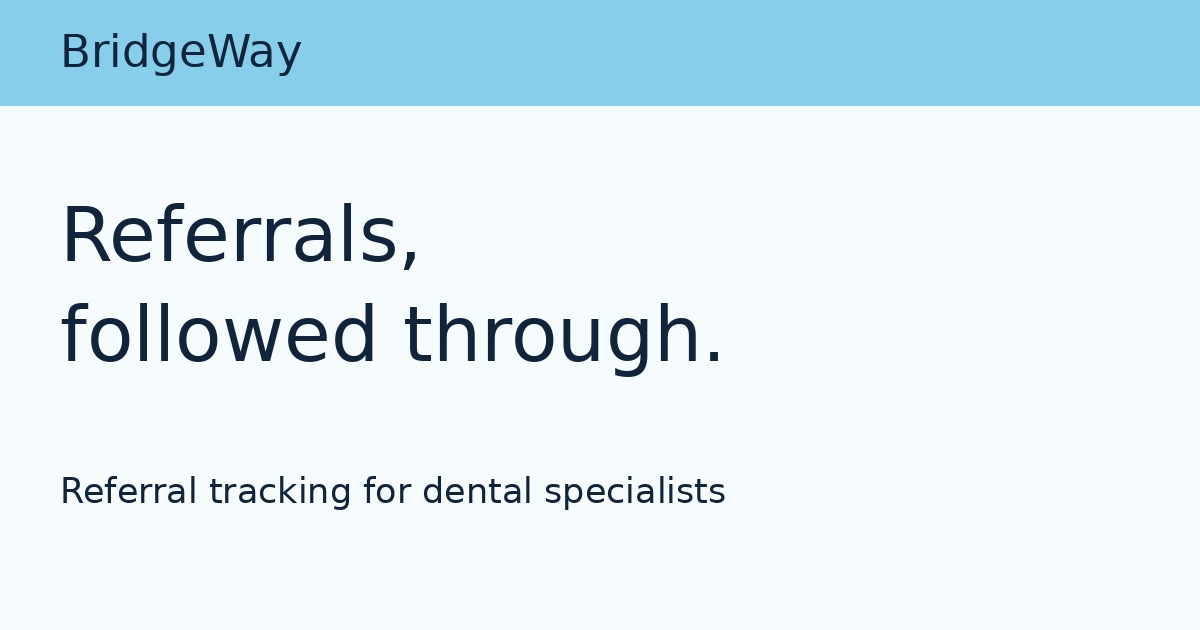
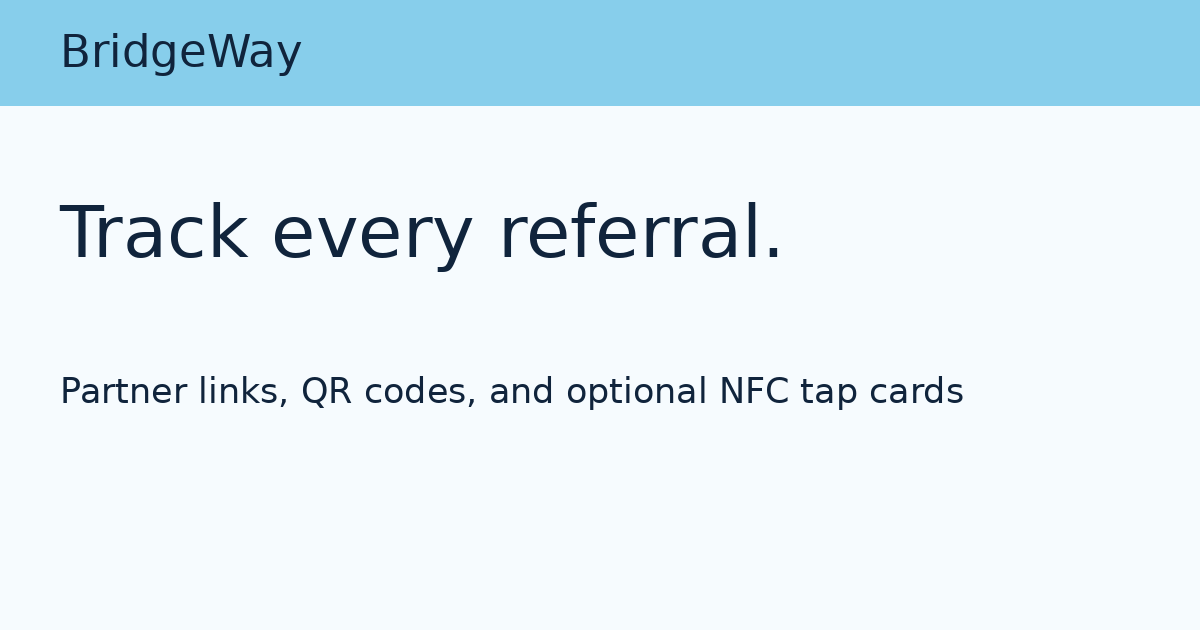
Position BridgeWay for business referrals across industries

diff --git a/src/bridgeway-web/components/LandingPage.tsx b/src/bridgeway-web/components/LandingPage.tsx
@@ -3,13 +3,13 @@ import Link from "next/link";
 
 export default function LandingPage() {
   return <main className="access-page refreshed-home" id="main-content">
-    <section className="home-hero"><div className="home-copy"><p className="eyebrow">REFERRAL TRACKING FOR DENTAL SPECIALISTS</p><h1>Turn referred patients into scheduled visits.</h1><p>Give referring offices a simple tap-to-refer card. Patient requests arrive in one inbox, where your team can assign follow-up and track each referral through completion.</p><div className="home-actions"><Link className="access-action" href="/contact">See how it works <span aria-hidden="true">→</span></Link><a className="home-secondary" href="/signup">Create your workspace <span aria-hidden="true">→</span></a></div><small>$50 USD per business, per month · NFC cards sold separately. <Link href="/pricing">See card and setup details</Link>.</small></div>
+    <section className="home-hero"><div className="home-copy"><p className="eyebrow">BUSINESS REFERRAL TRACKING</p><h1>Track every referral from introduction to follow-up.</h1><p>Give each referring partner a link, QR code, or optional NFC tap card. When someone submits a request, your team can see who referred them and follow up from one inbox.</p><div className="home-actions"><Link className="access-action" href="/contact">See how it works <span aria-hidden="true">→</span></Link><a className="home-secondary" href="/signup">Create your workspace <span aria-hidden="true">→</span></a></div><small>$50 USD per business, per month · NFC cards sold separately. <Link href="/pricing">See card and setup details</Link>.</small></div>
       <div className="home-preview"><div className="preview-head"><span>YOUR REFERRALS</span><span>PRIVATE</span></div><h2>Referral follow-up</h2><div className="preview-row"><i/> <span><b>New referral</b><small>Ready for your next action</small></span><em>New</em></div><div className="preview-row muted-row"><i/> <span><b>Partner referral</b><small>Follow-up status visible</small></span><em>Contacted</em></div><footer>YOUR BUSINESS DATA ONLY</footer></div></section>
-    <section className="home-steps"><article><span>1&nbsp; Create your workspace</span><p>Set up your practice and subscription.</p></article><article><span>2&nbsp; Connect referring offices</span><p>Add your offices and partners, then arrange your card links.</p></article><article><span>3&nbsp; Test and activate</span><p>Test your referral link and alerts, then open intake.</p></article></section>
-    <section className="home-details"><p className="eyebrow">HOW A REFERRAL TRAVELS</p><h2>From a tap to a follow-up in three steps.</h2><div><article><span aria-hidden="true">01</span><b>Referring staff share your card link</b></article><article><span aria-hidden="true">02</span><b>Patient taps or scans and completes a short form</b></article><article><span aria-hidden="true">03</span><b>Your team follows up from the inbox</b></article></div></section>
-    <section className="home-features"><p className="eyebrow">WHAT YOU GET</p><h2>Everything you need to track referrals.</h2><div>{[["Branded referral form","Your logo and offices on every card link."],["Partner tracking","See taps vs. referrals for each partner."],["Staff alerts","Configure email alerts that link your team to the dashboard."],["Monthly reports","12-month trend and month-over-month comparisons."],["Team access","Invite staff to your private workspace."],["Secure by default","Workspace membership controls access to referral records."]].map(([title,copy])=><article key={title}><h3>{title}</h3><p>{copy}</p></article>)}</div></section>
+    <section className="home-steps"><article><span>1&nbsp; Create your workspace</span><p>Set up your business workspace.</p></article><article><span>2&nbsp; Connect referring partners</span><p>Create a referral link for each partner. Add NFC cards if you want people to tap to open the form.</p></article><article><span>3&nbsp; Test and activate</span><p>Test your referral link and alerts, then open intake.</p></article></section>
+    <section className="home-details"><p className="eyebrow">HOW A REFERRAL TRAVELS</p><h2>How partner referrals work</h2><div><article><span aria-hidden="true">01</span><b>A partner shares their link, QR code, or NFC card</b></article><article><span aria-hidden="true">02</span><b>The person they refer opens a short form</b></article><article><span aria-hidden="true">03</span><b>Your team follows up from the inbox</b></article></div></section>
+    <section className="home-features"><p className="eyebrow">WHAT YOU GET</p><h2>Everything you need to track referrals.</h2><div>{[["Branded referral form","Your logo and offices on every card link."],["Partner tracking","See link opens and submitted referrals for each partner."],["Staff alerts","Configure email alerts that link your team to the dashboard."],["Monthly reports","12-month trend and month-over-month comparisons."],["Team access","Invite staff to your private workspace."],["Secure by default","Workspace membership controls access to referral records."]].map(([title,copy])=><article key={title}><h3>{title}</h3><p>{copy}</p></article>)}</div></section>
     <section className="home-pricing"><p className="eyebrow">PRICING</p><h2>Choose your monthly plan.</h2><article><strong>$50</strong><span>per business, per month</span><ul><li>Unlimited referrals</li><li>Unlimited offices &amp; partners</li><li>Staff invites</li><li>Monthly reports</li></ul><Link className="access-action" href="/signup">Start your workspace →</Link><small>NFC cards sold separately. <Link href="/pricing">See card and setup details</Link>.</small></article><article><h3>Managed Calling</h3><strong>$400</strong><span>USD per business, per month</span><p>Get the referral workspace plus a team that calls referrals and records follow-up in your CRM.</p><ManagedCallingForm /></article></section>
-    <section className="home-faq"><h2>Frequently asked questions</h2>{["How do NFC cards work?","Do customers need an app?","Who can see our referrals?","Can I cancel anytime?","How do I add more offices?"].map(q=><details key={q}><summary>{q}</summary><p>{q === 'How do NFC cards work?' ? 'Tap the card with a compatible phone to open the receiving business’s branded referral form.' : q === 'Do customers need an app?' ? 'No. The referral form opens in the phone’s web browser.' : q === 'Who can see our referrals?' ? 'Only authorized members of your business workspace can access its private referral dashboard.' : q === 'Can I cancel anytime?' ? 'Manage your subscription and cancellation from Billing in your workspace.' : 'Add offices from Setup in your workspace, then issue card links for the correct office.'}</p></details>)}</section>
+    <section className="home-faq"><h2>Frequently asked questions</h2>{["How do NFC cards work?","Do customers need an app?","Who can see our referrals?","Can I cancel anytime?","How do I add more offices?"].map(q=><details key={q}><summary>{q}</summary><p>{q === 'How do NFC cards work?' ? 'Each card opens a referral form linked to a specific partner. Use the same link or QR code when a physical card isn’t needed.' : q === 'Do customers need an app?' ? 'No. The referral form opens in the phone’s web browser.' : q === 'Who can see our referrals?' ? 'Only authorized members of your business workspace can access its private referral dashboard.' : q === 'Can I cancel anytime?' ? 'Manage your subscription and cancellation from Billing in your workspace.' : 'Add offices from Setup in your workspace, then issue card links for the correct office.'}</p></details>)}</section>
     <section className="home-final"><h2>Make the next referral easier to follow up.</h2><Link className="access-action" href="/contact">Request a walkthrough</Link></section>
   </main>;
 }

diff --git a/src/bridgeway-web/app/privacy/page.tsx b/src/bridgeway-web/app/privacy/page.tsx
@@ -1,2 +1,2 @@
 export const metadata = { title: "Privacy notice", alternates: { canonical: "/privacy" } };
-export default function PrivacyPage() { return <main className="dashboard public-document" id="main-content"><section className="card"><h1>Privacy notice</h1><h2>Referral requests</h2><p>The form collects the information you enter, including name, email, phone, optional request details, and contact consent. The receiving business uses that information to review and follow up on the request.</p><p>Referral links associate submissions and link-opening events with the receiving office and referring partner. Authorized workspace members can review referrals and reports. Do not put payment details or clinical records in the notes field.</p><h2>Staff and billing</h2><p>Microsoft sign-in supplies identity information used to verify staff access. Stripe handles subscription checkout and billing. The application uses a session cookie and stores the selected workspace identifier in browser storage.</p><h2>Contact requests</h2><p>The contact form collects your name, email, business name, and permission for BridgeWay to respond. Do not use it to send patient information.</p><h2>Questions and requests</h2><p>Contact the receiving practice about a referral or its use of your information. Use the <a href="/contact">BridgeWay contact form</a> for platform privacy questions or a request concerning information you submitted to BridgeWay.</p><p>Practice-specific retention, deletion, and healthcare contractual requirements should be confirmed before deployment. This notice describes the application workflow and does not replace the receiving practice’s privacy notice.</p></section></main>; }
+export default function PrivacyPage() { return <main className="dashboard public-document" id="main-content"><section className="card"><h1>Privacy notice</h1><h2>Referral requests</h2><p>The form collects the information you enter, including name, email, phone, optional request details, and contact consent. The receiving business uses that information to review and follow up on the request.</p><p>Referral links associate submissions and link-opening events with the receiving office and referring partner. Authorized workspace members can review referrals and reports. Do not put payment details or clinical records in the notes field.</p><h2>Staff and billing</h2><p>Microsoft sign-in supplies identity information used to verify staff access. Stripe handles subscription checkout and billing. The application uses a session cookie and stores the selected workspace identifier in browser storage.</p><h2>Contact requests</h2><p>The contact form collects your name, email, business name, and permission for BridgeWay to respond. Do not use it to send private information about someone else.</p><h2>Questions and requests</h2><p>Contact the receiving business about a referral or its use of your information. Use the <a href="/contact">BridgeWay contact form</a> for platform privacy questions or a request concerning information you submitted to BridgeWay.</p><p>Practice-specific retention, deletion, and healthcare contractual requirements should be confirmed before deployment. This notice describes the application workflow and does not replace the receiving business’s privacy notice.</p></section></main>; }

diff --git a/src/bridgeway-web/app/terms/page.tsx b/src/bridgeway-web/app/terms/page.tsx
@@ -1,2 +1,2 @@
 export const metadata = { title: "Service information and terms", alternates: { canonical: "/terms" } };
-export default function TermsPage() { return <main className="dashboard public-document" id="main-content"><section className="card"><h1>Service information and terms</h1><p>BridgeWay provides referral capture and follow-up tools. Submitting a request does not book an appointment or guarantee that the receiving business will accept it. Contact the practice directly for time-sensitive needs.</p><h2>Workspace subscriptions</h2><p>The advertised subscription is $50 USD per business per month. Physical NFC cards and fulfillment are separate. Review the amount and any offer displayed in Stripe checkout before subscribing. Billing management and cancellation are available in the workspace.</p><h2>Appropriate use</h2><p>Workspace administrators should invite only authorized staff, keep access current, and confirm that their intended use meets their practice’s requirements. Public forms are not intended for payment details, clinical attachments, or emergency requests.</p><h2>Before using BridgeWay in your practice</h2><p>Contact BridgeWay to confirm card fulfillment, support, data handling, and any required business or healthcare agreement. This service summary does not supply a Business Associate Agreement or replace separately agreed contractual terms.</p><p><a href="/contact">Ask about service terms</a>.</p></section></main>; }
+export default function TermsPage() { return <main className="dashboard public-document" id="main-content"><section className="card"><h1>Service information and terms</h1><p>BridgeWay provides referral capture and follow-up tools. Submitting a request does not book an appointment or guarantee that the receiving business will accept it. Contact the receiving business directly for time-sensitive needs.</p><h2>Workspace subscriptions</h2><p>The advertised subscription is $50 USD per business per month. Physical NFC cards and fulfillment are separate. Review the amount and any offer displayed in Stripe checkout before subscribing. Billing management and cancellation are available in the workspace.</p><h2>Appropriate use</h2><p>Workspace administrators should invite only authorized staff, keep access current, and confirm that their intended use meets their business’s requirements. Public forms are not intended for payment details, clinical attachments, or emergency requests.</p><h2>Before using BridgeWay in your business</h2><p>Contact BridgeWay to confirm card fulfillment, support, data handling, and any required business or healthcare agreement. This service summary does not supply a Business Associate Agreement or replace separately agreed contractual terms.</p><p><a href="/contact">Ask about service terms</a>.</p></section></main>; }

diff --git a/src/bridgeway-web/app/pricing/page.tsx b/src/bridgeway-web/app/pricing/page.tsx
@@ -1,2 +1,2 @@
 export const metadata = { title: "Pricing and NFC cards", alternates: { canonical: "/pricing" } };
-export default function PricingPage() { return <main className="dashboard public-document" id="main-content"><section className="card"><h1>One workspace. $50 per month.</h1><p>USD per business, with referral tracking, offices, partners, staff invitations, and monthly reporting.</p><h2>NFC cards are sold separately</h2><p>Request a card quote before purchasing. Confirm the quantity, card design, shipping cost, delivery estimate, and replacement terms with BridgeWay. These costs are not included in the subscription.</p><p>Each issued card link can also be copied or displayed as a QR code. A compatible phone can open the form without installing an app.</p><h2>What setup involves</h2><ol><li>Create your workspace and subscription.</li><li>Add receiving offices and referring partners.</li><li>Arrange card links with BridgeWay.</li><li>Test a link and staff alerts, then enable intake.</li></ol><p>New workspaces begin with intake off. Physical card issuance is managed by BridgeWay.</p><p>Manage subscription cancellation through Billing in your workspace. Any trial offer will be shown in checkout; no trial is promised on this page.</p><p><a className="access-action" href="/contact">Ask about cards and setup</a></p></section></main>; }
+export default function PricingPage() { return <main className="dashboard public-document" id="main-content"><section className="card"><h1>One workspace. $50 per month.</h1><p>USD per business, with referral tracking, offices, partners, staff invitations, and monthly reporting.</p><h2>NFC cards are sold separately</h2><p>Request a card quote before purchasing. Confirm the quantity, card design, shipping cost, delivery estimate, and replacement terms with BridgeWay. These costs are not included in the subscription.</p><p>Each partner’s referral link can be shared directly or displayed as a QR code. An optional NFC card opens the same link. A compatible phone can open the form without installing an app.</p><h2>What setup involves</h2><ol><li>Create your workspace and subscription.</li><li>Add receiving offices and referring partners.</li><li>Arrange partner referral links with BridgeWay and request NFC cards if needed.</li><li>Test a link and staff alerts, then enable intake.</li></ol><p>New workspaces begin with intake off. Physical card issuance is managed by BridgeWay.</p><p>Manage subscription cancellation through Billing in your workspace. Any trial offer will be shown in checkout; no trial is promised on this page.</p><p><a className="access-action" href="/contact">Ask about cards and setup</a></p></section></main>; }

diff --git a/src/bridgeway-web/app/security/page.tsx b/src/bridgeway-web/app/security/page.tsx
@@ -1,2 +1,2 @@
 export const metadata = { title: "Security and access", alternates: { canonical: "/security" } };
-export default function SecurityPage() { return <main className="dashboard public-document" id="main-content"><section className="card"><h1>How access is controlled</h1><p>Staff access uses Microsoft sign-in and active membership in the selected business workspace. Platform administration has a separate access check.</p><h2>Referral information</h2><p>Referral records are reviewed inside the authenticated dashboard. Standard staff notification emails contain a dashboard link, without patient names, contact details, or notes.</p><h2>Public card links</h2><p>A card or QR link opens a submission form. It does not grant access to the private referral inbox. Share card links only where you intend to accept requests.</p><h2>Healthcare deployment questions</h2><p>Before using BridgeWay for your practice, confirm your data requirements and available contractual terms with BridgeWay. This page is not a claim of HIPAA certification or a Business Associate Agreement.</p><p><a href="/contact">Contact BridgeWay about security</a>.</p></section></main>; }
+export default function SecurityPage() { return <main className="dashboard public-document" id="main-content"><section className="card"><h1>How access is controlled</h1><p>Staff access uses Microsoft sign-in and active membership in the selected business workspace. Platform administration has a separate access check.</p><h2>Referral information</h2><p>Referral records are reviewed inside the authenticated dashboard. Standard staff notification emails contain a dashboard link, without referral names, contact details, or notes.</p><h2>Public card links</h2><p>A card or QR link opens a submission form. It does not grant access to the private referral inbox. Share card links only where you intend to accept requests.</p><h2>Healthcare deployment questions</h2><p>Before using BridgeWay for your business, confirm your data requirements and available contractual terms with BridgeWay. This page is not a claim of HIPAA certification or a Business Associate Agreement.</p><p><a href="/contact">Contact BridgeWay about security</a>.</p></section></main>; }

diff --git a/src/bridgeway-web/components/DemoRequestForm.tsx b/src/bridgeway-web/components/DemoRequestForm.tsx
@@ -12,5 +12,5 @@ export default function DemoRequestForm() {
     finally { setBusy(false); }
   }
   if (done) return <div role="status"><h2>Request received</h2><p>Your request is available to the BridgeWay team. We can contact you at the email you provided.</p></div>;
-  return <form onSubmit={submit} className="form-grid"><label>Your name<input name="name" autoComplete="name" maxLength={120} required /></label><label>Work email<input name="email" type="email" autoComplete="email" maxLength={254} required /></label><label>Practice or business<input name="businessName" autoComplete="organization" maxLength={120} required /></label><label className="check"><input name="consent" type="checkbox" required /><span>I agree that BridgeWay may contact me about this request. Please do not include patient information.</span></label><p>Read our <a href="/privacy">privacy notice</a> before submitting.</p><button className="primary" disabled={busy}>{busy ? "Sending…" : "Request a walkthrough"}</button>{error && <p role="alert">{error}</p>}</form>;
+  return <form onSubmit={submit} className="form-grid"><label>Your name<input name="name" autoComplete="name" maxLength={120} required /></label><label>Work email<input name="email" type="email" autoComplete="email" maxLength={254} required /></label><label>Business name<input name="businessName" autoComplete="organization" maxLength={120} required /></label><label className="check"><input name="consent" type="checkbox" required /><span>I agree that BridgeWay may contact me about this request. Please do not include private information about someone else.</span></label><p>Read our <a href="/privacy">privacy notice</a> before submitting.</p><button className="primary" disabled={busy}>{busy ? "Sending…" : "Request a walkthrough"}</button>{error && <p role="alert">{error}</p>}</form>;
 }

diff --git a/src/bridgeway-web/components/OfficeReport.tsx b/src/bridgeway-web/components/OfficeReport.tsx
@@ -15,7 +15,7 @@ export default function OfficeReport({ report, month, onMonth, availableMonths =
       <label htmlFor="report-month" className="sr-only">Reporting month</label><select id="report-month" value={month || report?.month || ""} onChange={e => onMonth(e.target.value)}>{!availableMonths.length && <option>Loading months…</option>}{availableMonths.map(m => <option key={m} value={m}>{new Date(m + "-15T12:00:00Z").toLocaleDateString("en-US", { month: "long", year: "numeric", timeZone: "UTC" })}</option>)}</select>
       <button className="icon-button" aria-label="Next month" disabled={selectedIndex <= 0} onClick={() => onMonth(availableMonths[selectedIndex - 1])}>→</button>
     </div></div>
-    <p className="hint">Outcomes describe referrals received in the selected month that later reached completion. Link opens include NFC, QR, and shared-link visits; they are not unique patients.</p>
+    <p className="hint">Outcomes describe referrals received in the selected month that later reached completion. Link opens include NFC, QR, and shared-link visits; they are not unique people.</p>
     <div className="report-summary" aria-live="polite">
       <div className="summary-card summary-primary"><p>Submitted referrals</p><strong>{report?.total ?? "—"}</strong><small>{report ? report.hasSubmissions ? `${report.previousTotal} in the previous month` : "No submissions this month" : "Loading monthly totals"}</small></div>
       <div className="summary-card"><p>{report?.outcomeLabel || "Reached outcome"}</p><strong>{report?.outcomes ?? "—"}</strong><small>{report?.hasSubmissions ? `of ${report.total} submissions` : "No outcome data yet"}</small></div>

diff --git a/src/bridgeway-web/tests/audit-readiness.spec.ts b/src/bridgeway-web/tests/audit-readiness.spec.ts
@@ -13,8 +13,8 @@ test("a scheduled referral only becomes overdue when its action deadline is miss
 test("marketing routes expose metadata and private routes are excluded from indexing", async ({ page, request }) => {
   await page.setViewportSize({ width: 390, height: 844 });
   await page.goto("/");
-  await expect(page.getByRole("heading", { level: 1 })).toContainText("scheduled visits");
-  await expect(page.locator('meta[name="description"]')).toHaveAttribute("content", /dental specialists/);
+  await expect(page.getByRole("heading", { level: 1 })).toContainText("introduction to follow-up");
+  await expect(page.locator('meta[name="description"]')).toHaveAttribute("content", /businesses/);
   await expect(page.locator('link[rel="canonical"]')).toHaveAttribute("href", "https://bridgewayrefer.com");
   expect(await page.evaluate(() => document.documentElement.scrollWidth)).toBeLessThanOrEqual(390);
   const robots = await request.get("/robots.txt"); expect(robots.status()).toBe(200);
@@ -38,7 +38,7 @@ test("a walkthrough request needs no login and keeps its idempotency key after a
   await page.goto("/contact");
   await page.getByLabel("Your name").fill("Fictional User");
   await page.getByLabel("Work email").fill("fictional@example.invalid");
-  await page.getByLabel("Practice or business").fill("Fictional Practice");
+  await page.getByLabel("Business name").fill("Fictional Practice");
   await page.getByRole("checkbox").check();
   await page.getByRole("button", { name: "Request a walkthrough" }).click();
   await expect(page.locator("form").getByRole("alert")).toHaveText("Please retry");

diff --git a/src/bridgeway-web/app/page.tsx b/src/bridgeway-web/app/page.tsx
@@ -1,4 +1,4 @@
 import LandingPage from "../components/LandingPage";
 export const metadata = { alternates: { canonical: "/" } };
-export default function HomePage() { return <><script type="application/ld+json" dangerouslySetInnerHTML={{ __html: JSON.stringify({ "@context": "https://schema.org", "@type": "SoftwareApplication", name: "BridgeWay", applicationCategory: "BusinessApplication", operatingSystem: "Web", url: "https://bridgewayrefer.com", description: "Referral tracking for dental specialists", offers: { "@type": "Offer", price: "50", priceCurrency: "USD", description: "Per business per month. NFC cards sold separately." } }) }} /><LandingPage /></>; }
+export default function HomePage() { return <><script type="application/ld+json" dangerouslySetInnerHTML={{ __html: JSON.stringify({ "@context": "https://schema.org", "@type": "SoftwareApplication", name: "BridgeWay", applicationCategory: "BusinessApplication", operatingSystem: "Web", url: "https://bridgewayrefer.com", description: "Referral tracking for businesses", offers: { "@type": "Offer", price: "50", priceCurrency: "USD", description: "Per business per month. NFC cards sold separately." } }) }} /><LandingPage /></>; }
 

diff --git a/src/bridgeway-web/app/contact/page.tsx b/src/bridgeway-web/app/contact/page.tsx
@@ -1,3 +1,3 @@
 import DemoRequestForm from "../../components/DemoRequestForm";
 export const metadata = { title: "Contact and product walkthrough", alternates: { canonical: "/contact" } };
-export default function ContactPage() { return <main className="dashboard public-document" id="main-content"><section className="card"><p className="eyebrow">TALK TO BRIDGEWAY</p><h1>See how referrals reach your front desk.</h1><p>Request a walkthrough, ask about card pricing, or contact us about workspace access. No Microsoft sign-in or payment is needed to send this form.</p><p>For an existing patient referral, contact the receiving practice directly.</p><DemoRequestForm /></section></main>; }
+export default function ContactPage() { return <main className="dashboard public-document" id="main-content"><section className="card"><p className="eyebrow">TALK TO BRIDGEWAY</p><h1>See how referrals reach your team.</h1><p>Request a walkthrough, ask about card pricing, or contact us about workspace access. No Microsoft sign-in or payment is needed to send this form.</p><p>For an existing referral, contact the receiving business directly.</p><DemoRequestForm /></section></main>; }

diff --git a/src/bridgeway-web/app/layout.tsx b/src/bridgeway-web/app/layout.tsx
@@ -10,9 +10,9 @@ import "./uidesign.css";
 
 export const metadata: Metadata = {
   metadataBase: new URL(siteOrigin),
-  title: { default: "Dental referral tracking | BridgeWay", template: "%s | BridgeWay" },
+  title: { default: "Business referral tracking | BridgeWay", template: "%s | BridgeWay" },
   description: siteDescription,
-  openGraph: { type: "website", siteName: "BridgeWay", title: "Dental referral tracking | BridgeWay", description: siteDescription, images: [{ url: "/share.png", width: 1200, height: 630, alt: "BridgeWay referral tracking for dental specialists" }] },
+  openGraph: { type: "website", siteName: "BridgeWay", title: "Business referral tracking | BridgeWay", description: siteDescription, images: [{ url: "/share.png", width: 1200, height: 630, alt: "BridgeWay referral tracking for businesses" }] },
   twitter: { card: "summary_large_image", images: ["/share.png"] },
 };
 

diff --git a/src/bridgeway-web/app/r/[code]/not-found.tsx b/src/bridgeway-web/app/r/[code]/not-found.tsx
@@ -1,1 +1,1 @@
-export default function CardNotFound() { return <main className="dashboard" id="main-content"><section className="card"><h1>This referral link is unavailable</h1><p>The link may be incorrect or the card may have been deactivated. Ask the referring office for a current card or contact the receiving practice directly.</p></section></main>; }
+export default function CardNotFound() { return <main className="dashboard" id="main-content"><section className="card"><h1>This referral link is unavailable</h1><p>The link may be incorrect or the card may have been deactivated. Ask the referring office for a current card or contact the receiving business directly.</p></section></main>; }
